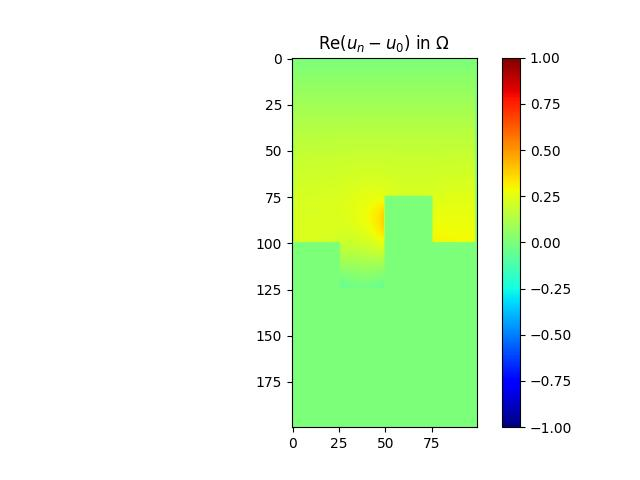
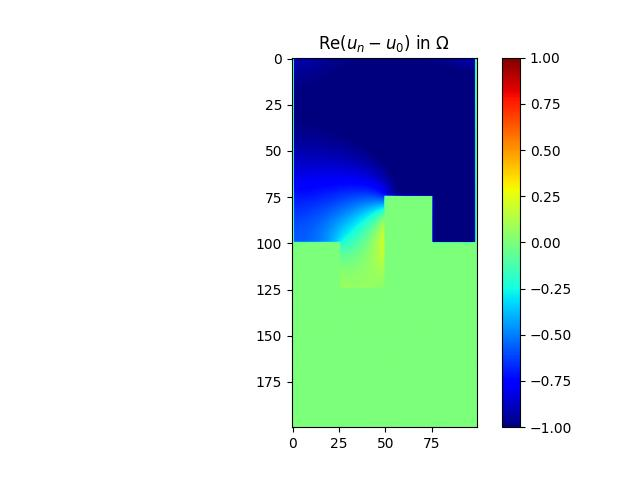
ras

Changed region(s): [[0.4375, 0.0938, 0.75, 0.625]]

diff --git a/demo_control_polycopie2023.py b/demo_control_polycopie2023.py
@@ -170,9 +170,9 @@ def your_optimization_procedure(domain_omega, spacestep, wavenumber, f, f_dir, f
             mu *= 2
         print(f"k={k}")
         #print('1. computing solution of Helmholtz problem, i.e., u')
-        u=processing.solve_helmholtz(domain_omega, spacestep, omega, f, f_dir, f_neu, f_rob, beta_pde, alpha_pde, alpha_dir, beta_neu, beta_rob, alpha_rob)
+        u=processing.solve_helmholtz(domain_omega, spacestep, wavenumber, f, f_dir, f_neu, f_rob, beta_pde, alpha_pde, alpha_dir, beta_neu, beta_rob, alpha_rob)
         #print('2. computing solution of adjoint problem, i.e., p')
-        p=processing.solve_helmholtz(domain_omega, spacestep, omega, np.conjugate(-2*u), np.zeros_like(domain_omega), f_neu, f_rob, beta_pde, alpha_pde, alpha_dir, beta_neu, beta_rob, alpha_rob)
+        p=processing.solve_helmholtz(domain_omega, spacestep, wavenumber, np.conjugate(-2*u), np.zeros_like(domain_omega), f_neu, f_rob, beta_pde, alpha_pde, alpha_dir, beta_neu, beta_rob, alpha_rob)
         #print('3. computing objective function, i.e., energy')
         J=your_compute_objective_function(u)
         energy[k]=J
@@ -192,7 +192,7 @@ def your_optimization_procedure(domain_omega, spacestep, wavenumber, f, f_dir, f
             chi = compute_projected(chi, domain_omega, V_obj)
             alpha_rob = Alpha*chi
             #print('    c. computing solution of Helmholtz problem, i.e., u')
-            u=processing.solve_helmholtz(domain_omega, spacestep, omega, f, f_dir, f_neu, f_rob, beta_pde, alpha_pde, alpha_dir, beta_neu, beta_rob, alpha_rob)
+            u=processing.solve_helmholtz(domain_omega, spacestep, wavenumber, f, f_dir, f_neu, f_rob, beta_pde, alpha_pde, alpha_dir, beta_neu, beta_rob, alpha_rob)
             
 
             #print('    d. computing objective function, i.e., energy (E)')
@@ -332,9 +332,9 @@ if __name__ == '__main__':
 
     # -- plot chi, u, and energy
     postprocessing._plot_uncontroled_solution(u0, chi0)
-    # postprocessing._plot_controled_solution(un, chin)
-    # err = un - u0
-    # postprocessing._plot_error(err)
-    # postprocessing._plot_energy_history(energy)
+    postprocessing._plot_controled_solution(un, chin)
+    err = un - u0
+    postprocessing._plot_error(err)
+    postprocessing._plot_energy_history(energy)
 
     print('End.')
